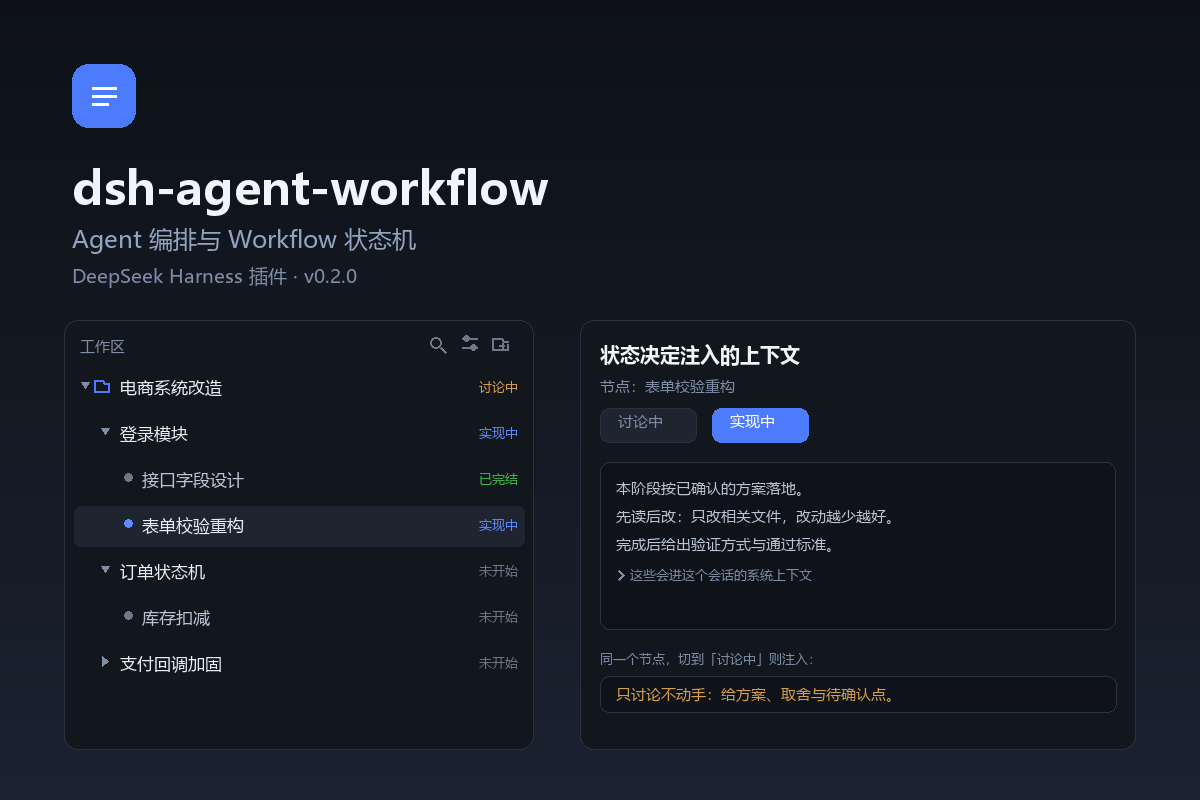
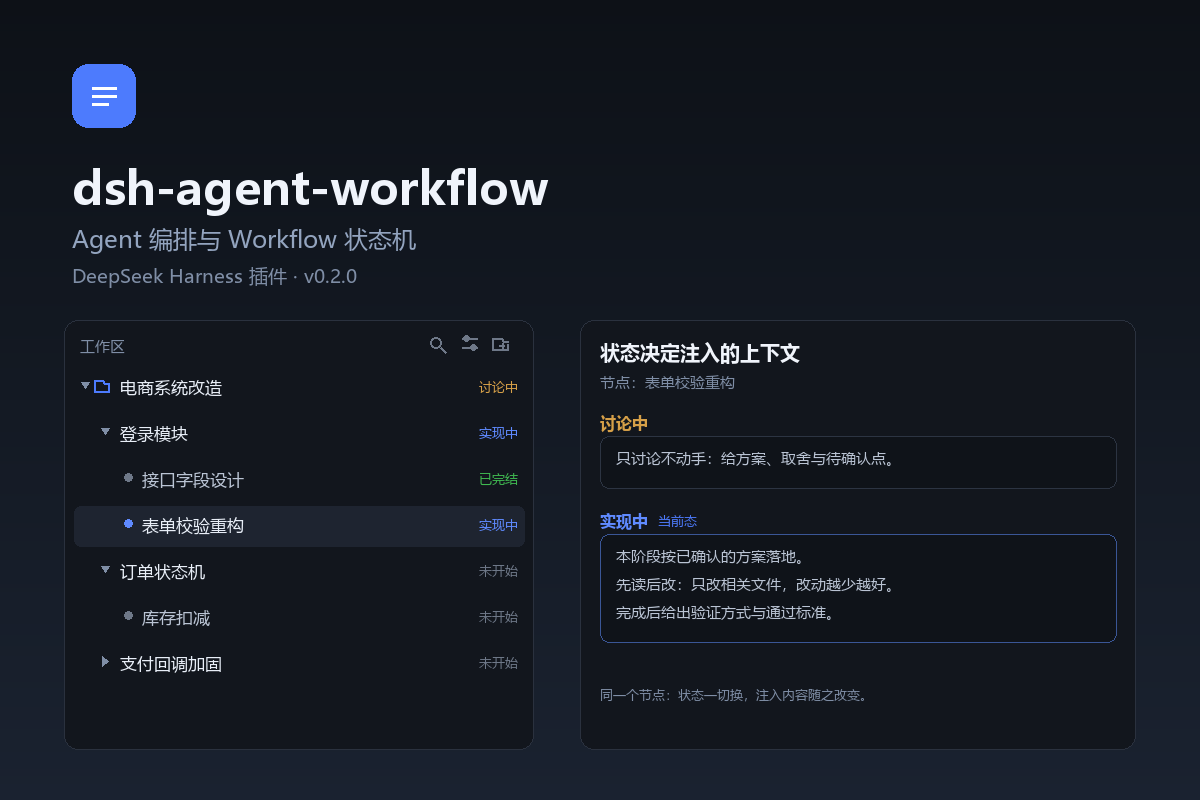
docs: 封面右栏改为分状态分框（去掉页签），对齐节点弹窗排版
讨论中/实现中各一个标题+内容框，实现中标当前态；底部一行说明状态切换注入内容随之改变

Changed region(s): [[0.4933, 0.4062, 0.74, 0.7812], [0.4933, 0.8125, 0.74, 0.875]]

diff --git a/scripts/make-cover.py b/scripts/make-cover.py
@@ -1,4 +1,4 @@
-"""生成插件封面（1200x800）。
+"""生成插件封面（1200x800）。
 
 左侧：与插件一致的侧栏树，三层结构（工作区 → 子节点 → 孙节点）。
 右侧：说明「同一节点、不同状态 → 注入的上下文不一样」。
@@ -124,44 +124,45 @@ def draw_context_panel(canvas, x0, y0, w, h):
 
     title_font = ImageFont.truetype(FONT_BOLD, 20)
     node_font = ImageFont.truetype(FONT_REG, 15)
-    chip_font = ImageFont.truetype(FONT_REG, 15)
+    label_font = ImageFont.truetype(FONT_BOLD, 16)
     code_font = ImageFont.truetype(FONT_REG, 15)
     dim_font = ImageFont.truetype(FONT_REG, 13)
 
-    d.text((20, 20), "状态决定注入的上下文", font=title_font, fill=TEXT_PRIMARY)
-    d.text((20, 56), "节点：表单校验重构", font=node_font, fill=TEXT_MUTED)
+    d.text((20, 18), "状态决定注入的上下文", font=title_font, fill=TEXT_PRIMARY)
+    d.text((20, 52), "节点：表单校验重构", font=node_font, fill=TEXT_MUTED)
 
-    # 两个状态 chip：实现中 = 高亮
-    d.rounded_rectangle([(20, 88), (116, 122)], radius=9, fill=CHIP_INACTIVE, outline=PANEL_BORDER, width=1)
-    d.text((38, 91), "讨论中", font=chip_font, fill=TEXT_MUTED)
-    d.rounded_rectangle([(132, 88), (228, 122)], radius=9, fill=ACCENT)
-    d.text((150, 91), "实现中", font=chip_font, fill=(255, 255, 255))
+    bx0, bx1 = 20, w - 20
 
-    # 注入块
-    cb_x, cb_y = 20, 142
-    cb_w, cb_h = w - 40, 168
-    d.rounded_rectangle([(cb_x, cb_y), (cb_x + cb_w - 1, cb_y + cb_h - 1)], radius=10, fill=CODE_BG, outline=CODE_BORDER, width=1)
-    lines = [
+    def section(label, color, top, lines, active=False):
+        d.text((bx0, top), label, font=label_font, fill=color)
+        if active:
+            lw = d.textlength(label, font=label_font)
+            d.text((bx0 + lw + 10, top + 2), "当前态", font=dim_font, fill=ACCENT)
+        box_top = top + 24
+        box_h = 16 + len(lines) * 28 + 8
+        d.rounded_rectangle(
+            [(bx0, box_top), (bx1, box_top + box_h)],
+            radius=9,
+            fill=CODE_BG,
+            outline=(58, 86, 150) if active else CODE_BORDER,
+            width=1,
+        )
+        ly = box_top + 12
+        for line in lines:
+            d.text((bx0 + 16, ly), line, font=code_font, fill=ROW_CHILD_TITLE)
+            ly += 28
+        return box_top + box_h
+
+    bottom = section("讨论中", STATE_WARN, 92, ["只讨论不动手：给方案、取舍与待确认点。"])
+    section("实现中", STATE_BRAND, bottom + 22, [
         "本阶段按已确认的方案落地。",
         "先读后改：只改相关文件，改动越少越好。",
         "完成后给出验证方式与通过标准。",
-    ]
-    ly = cb_y + 16
-    for line in lines:
-        d.text((cb_x + 16, ly), line, font=code_font, fill=ROW_CHILD_TITLE)
-        ly += 28
-    # 小箭头用线条画，避免字体缺字变成方框
-    ax, ay = cb_x + 18, ly + 8
-    d.line([(ax, ay), (ax + 5, ay + 5), (ax, ay + 10)], fill=TEXT_MUTED, width=2)
-    d.text((ax + 12, ly + 4), "这些会进这个会话的系统上下文", font=dim_font, fill=TEXT_MUTED)
+    ], active=True)
 
-    # 对比：讨论中会注入什么
-    d.text((20, 330), "同一个节点，切到「讨论中」则注入：", font=dim_font, fill=TEXT_MUTED)
-    d.rounded_rectangle([(20, 356), (w - 20, 392)], radius=9, fill=CODE_BG, outline=CODE_BORDER, width=1)
-    d.text((36, 364), "只讨论不动手：给方案、取舍与待确认点。", font=code_font, fill=STATE_WARN)
+    d.text((bx0, 366), "同一个节点：状态一切换，注入内容随之改变。", font=dim_font, fill=TEXT_MUTED)
 
     canvas.paste(panel, (x0, y0), panel)
-
 
 canvas = gradient_canvas()
 
@@ -187,3 +188,4 @@ draw_context_panel(canvas, 580, 320, 556, 430)
 
 canvas.convert("RGB").save(OUT, "PNG")
 print("written", OUT, canvas.size)
+
